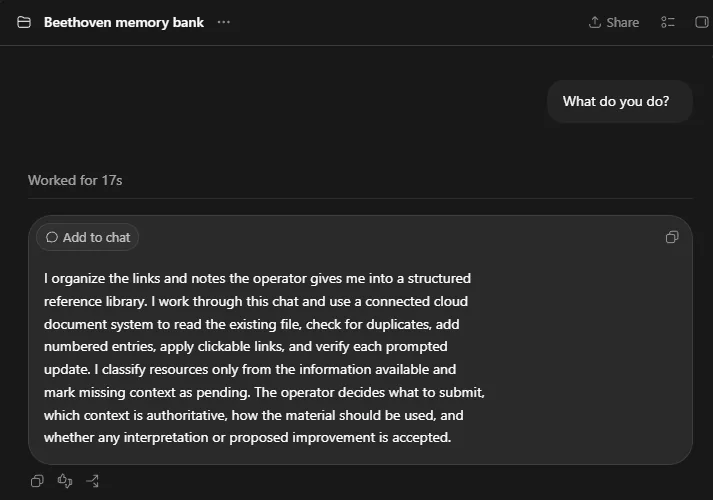
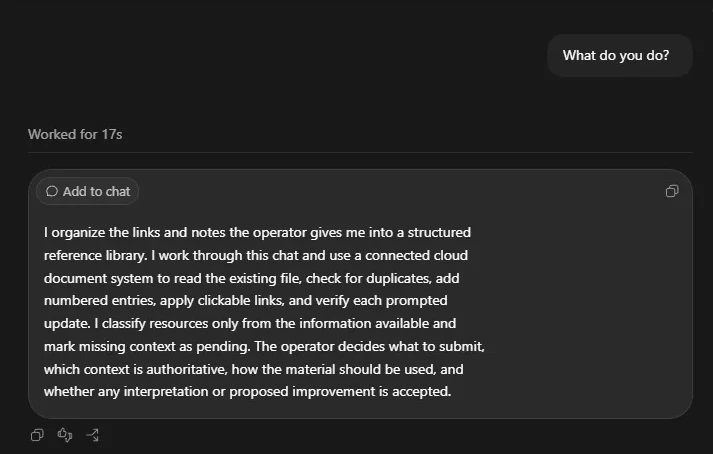
Roles ended: active client operations 1, systems section in past tense, crop a name off a screenshot, drop unused originals

diff --git a/index.html b/index.html
@@ -79,7 +79,7 @@
           <div class="stat"><div class="v">6</div><div class="l">Systems shipped</div></div>
           <div class="stat"><div class="v">8</div><div class="l">n8n workflows</div></div>
           <div class="stat"><div class="v">37pp</div><div class="l">Ops docs &amp; SOPs written</div></div>
-          <div class="stat"><div class="v">2</div><div class="l">Active client operations</div></div>
+          <div class="stat"><div class="v">1</div><div class="l">Active client operations</div></div>
         </div>
         <div class="now">
           <span class="kicker">Now building</span>
@@ -572,13 +572,13 @@
       <div class="sec-head reveal">
         <div>
           <div class="kicker">04 · Operational systems</div>
-          <h2>AI-assisted workflows in daily use</h2>
+          <h2>AI-assisted workflows I ran day to day</h2>
         </div>
         <div class="meta">4 documented case studies · 1 personal system</div>
       </div>
       <p class="reveal sec-intro">
         These aren't node graphs. They're conversational systems I designed, wrote the operating
-        instructions for, and run in production for a live executive operation. Rather than describe
+        instructions for, and ran in production for a live executive operation. Rather than describe
         them for you, I asked each one what it does; the replies are shown unedited, sanitised only
         of client detail. Note how consistently they name what they <em>don't</em> do.
       </p>
@@ -685,7 +685,7 @@
           <div class="case-grid">
             <figure class="shot">
               <button class="shot-btn" type="button" data-src="screenshots/09-reference-chat.webp" data-cap="The reference library describing its own scope and limits">
-                <img src="screenshots/09-reference-chat.webp" width="713" height="500" loading="lazy" alt="Screenshot of the assistant answering 'What do you do?' It explains that it organises the links and notes the operator provides into a structured reference library, reads the existing document to check for duplicates, adds numbered entries with clickable links and verifies each update, classifies resources only from available information and marks missing context as pending.">
+                <img src="screenshots/09-reference-chat.webp" width="713" height="454" loading="lazy" alt="Screenshot of the assistant answering 'What do you do?' It explains that it organises the links and notes the operator provides into a structured reference library, reads the existing document to check for duplicates, adds numbered entries with clickable links and verifies each update, classifies resources only from available information and marks missing context as pending.">
               </button>
               <figcaption>Its own answer, unedited. Click to read</figcaption>
             </figure>
